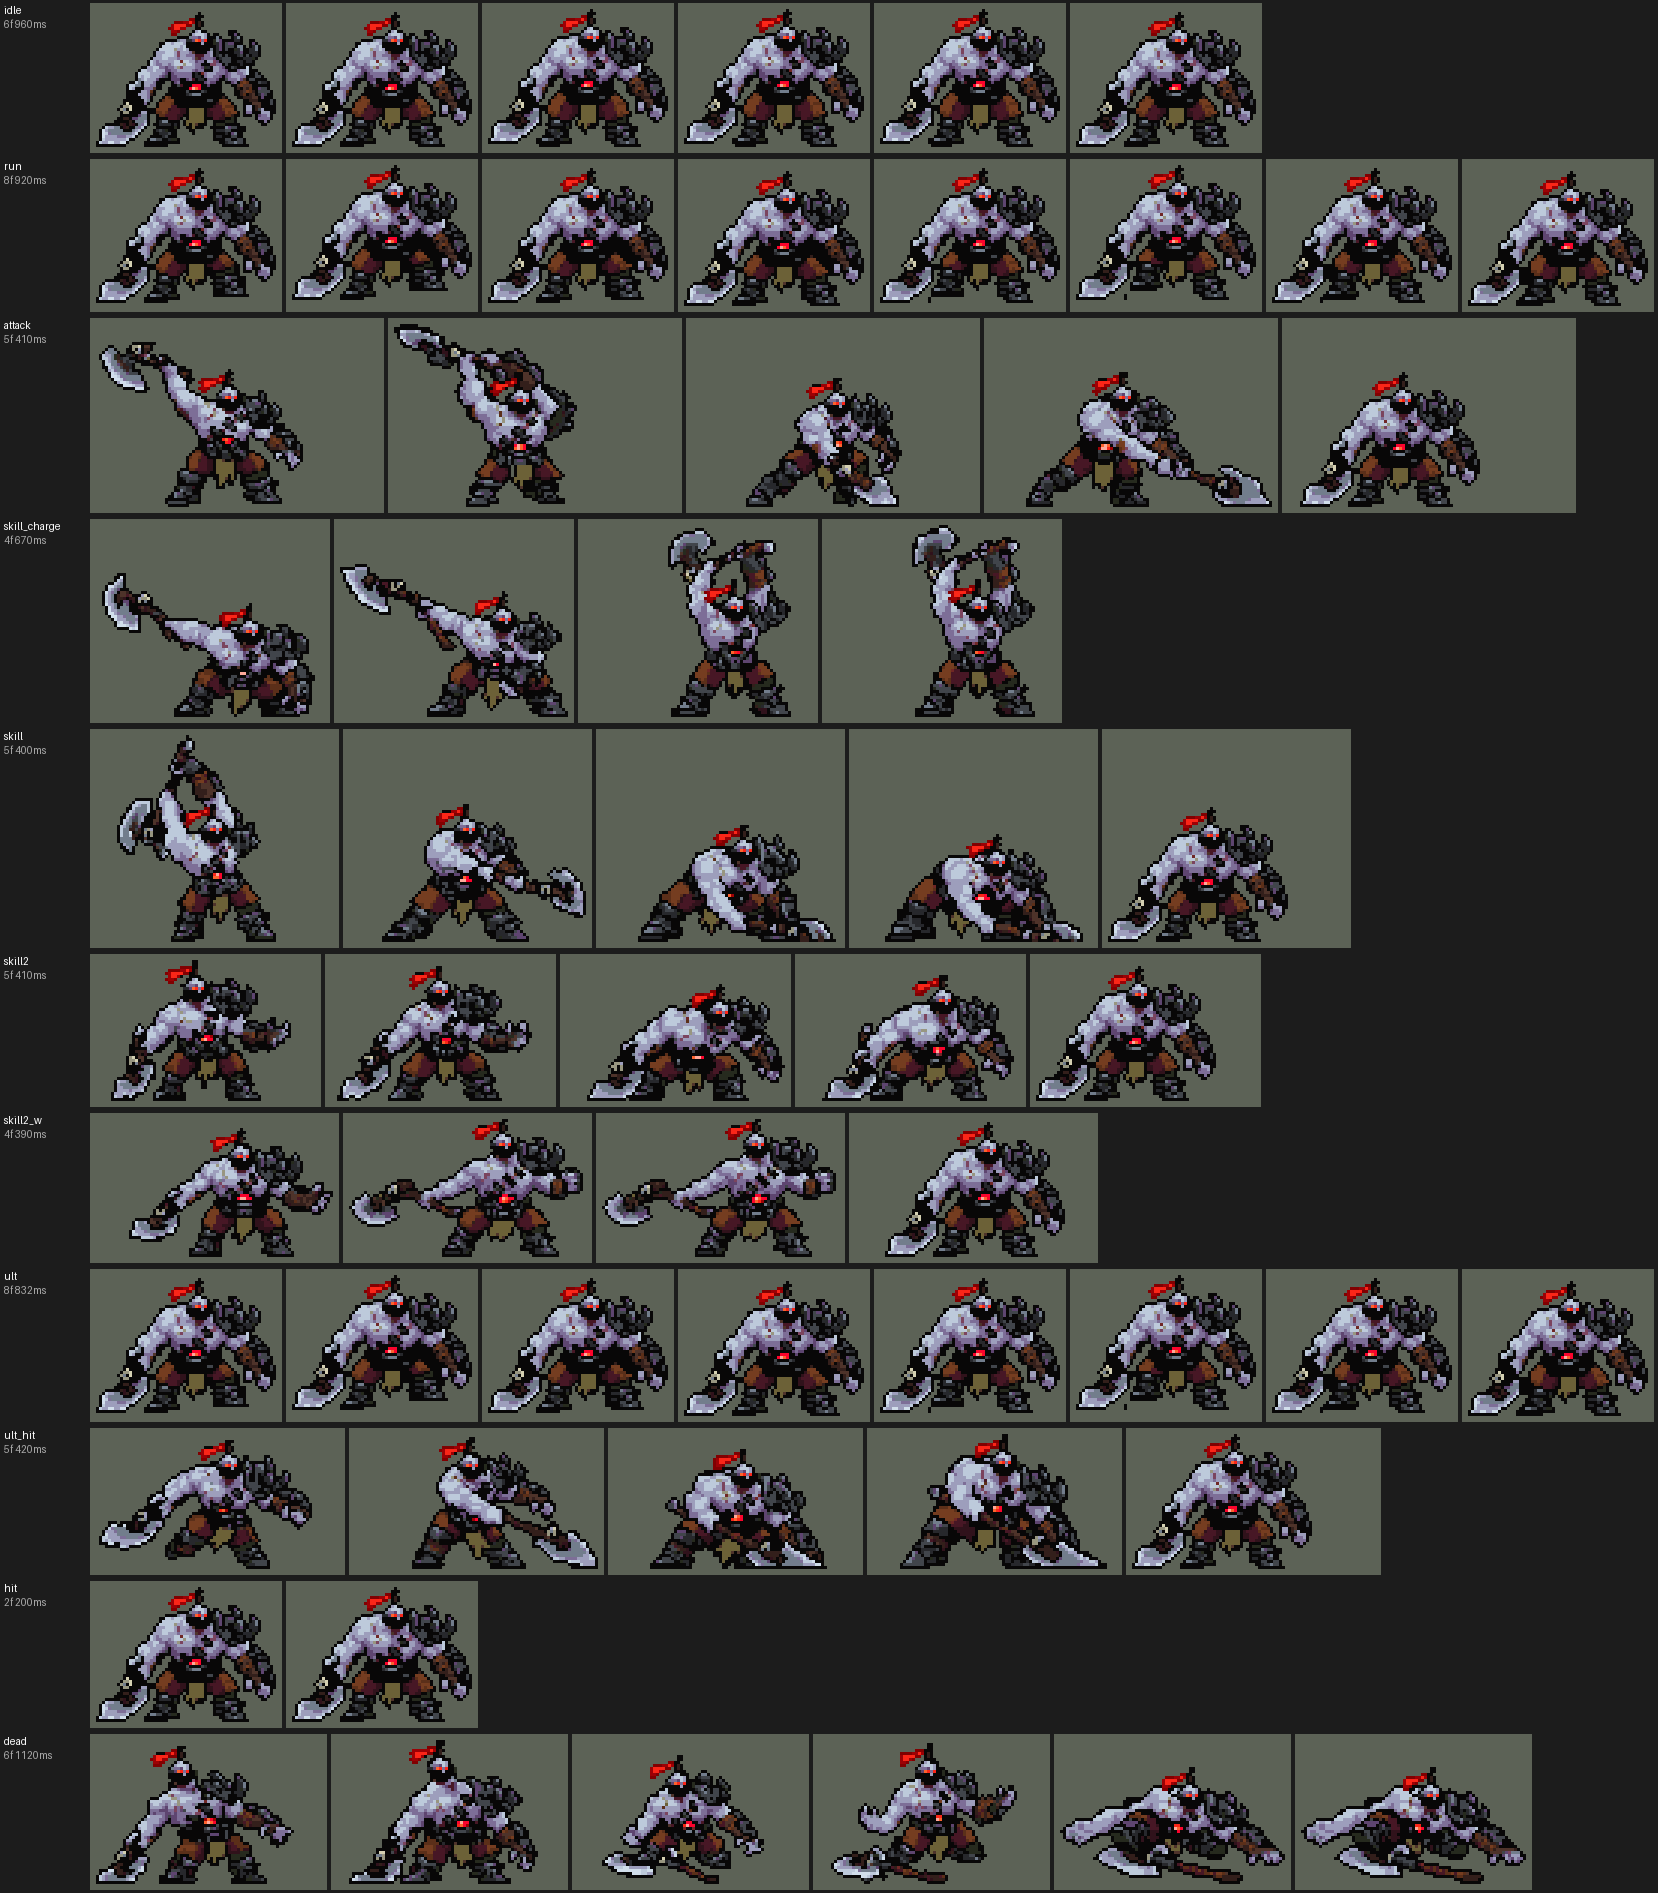
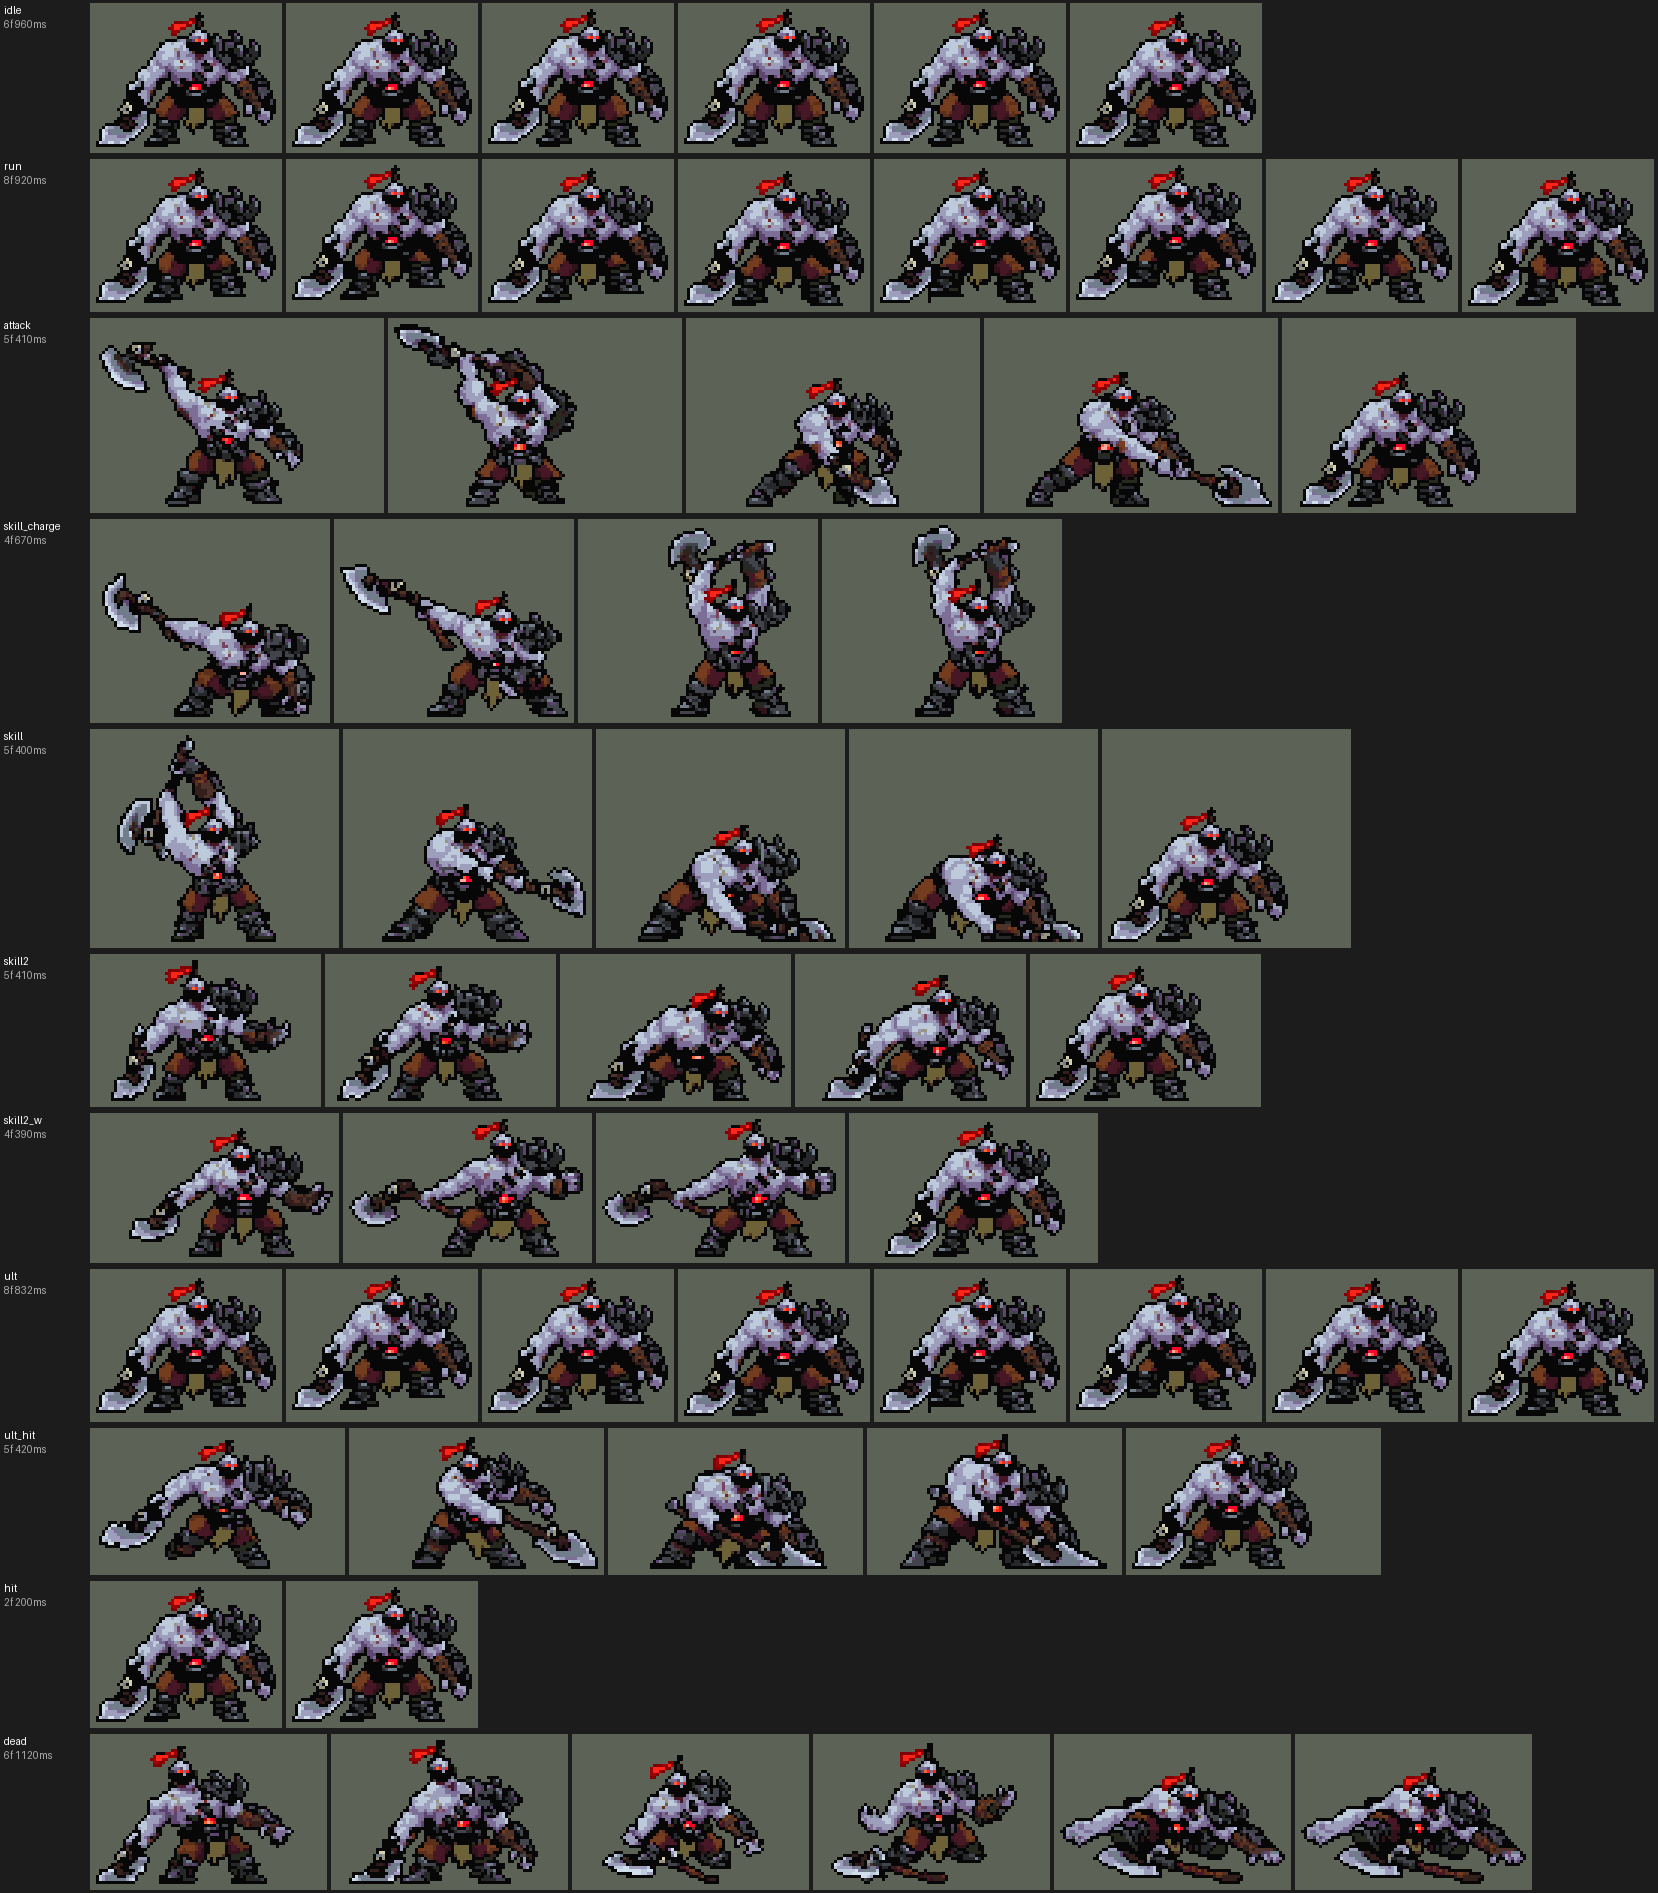
league_sion run (and R's charge, the same frames): bigger steps - the swinging foot from 1 behind to 2 ahead lifted up to 4, the planted one sliding back under him; the loose outline squares a lifted foot left are cleared (the user: 「走路像平移？」, then 「塞恩你选一个吧」: B of now / A / B); every other frame pixe

diff --git a/tools/art/rig_sion.py b/tools/art/rig_sion.py
@@ -22,7 +22,8 @@ dense frames by a fraction, so a body moving up and down drew a doubled line acr
 every Codex frame is pixel_down.pixelate'd at 1 / DENSE, his 90 % size built in (no league.dll row). The frames that
 move the design itself are made on the 1x design, whole game pixels at a time, so it never re-samples:
   * idle = the 1x design breathing (the upper body LO_BREATH rows up over the legs), hit = it moved 1 back;
-  * run = it walking league_nautilus / league_braum's way (walk_frame, LO_WALK; the user: 「你向前那样冲刺模型永远会变形」);
+  * run = it walking league_nautilus / league_braum's way (walk_frame, LO_WALK; the user: 「你向前那样冲刺模型永远会变形」),
+    with bigger steps than Nautilus's (his short dark legs between the axe and the gauntlet hardly moved: 「走路像平移？」);
   * ult (R's charge) = the run, faster (the user: 「放大招的时候模型完全变形」 about Codex's hunched charge pose).
 """
 import argparse
@@ -96,10 +97,12 @@ WALK_BAND = 52
 WALK_NEAR = ((53, 62, 31, 50), (62, 75, 28, 50))
 WALK_FAR = ((53, 63, 61, 81), (63, 75, 61, 87))
 CLOTH_BOX = ((53, 75, 50, 61),)       # the loin cloth between them: it hangs from the belt, it does not breathe
-# per frame: the near leg's (columns forward, rows lifted), the far leg's, the figure's rise (1x pixels: league_braum's
-# steps over its PPU)
-LO_WALK = [((0, 0), (0, 2), 1), ((0, 0), (1, 3), 2), ((0, 0), (1, 1), 1), ((0, 0), (1, 0), 0),
-           ((0, 2), (0, 0), 1), ((1, 3), (0, 0), 2), ((1, 1), (0, 0), 1), ((1, 0), (0, 0), 0)]
+# per frame: the near leg's (columns forward, rows lifted), the far leg's, the figure's rise (1x pixels). Nautilus's
+# steps (forward 1, lifted up to 3, the planted foot still; frames 3 and 7 all but the idle) read as gliding on Sion
+# (2026-10-14: 「走路像平移？」, the user picked from now / A / B: 「塞恩你选一个吧」) - B: the swinging foot goes from 1 behind
+# to 2 ahead, lifted up to 4, the planted one slides back under him from 2 ahead to 1 behind
+LO_WALK = [((1, 0), (-1, 2), 1), ((1, 0), (0, 4), 2), ((0, 0), (1, 3), 1), ((-1, 0), (2, 0), 0),
+           ((-1, 2), (1, 0), 1), ((0, 4), (1, 0), 2), ((1, 3), (0, 0), 1), ((2, 0), (-1, 0), 0)]
 WALK_MS = 115
 CRACK = 3                       # bare squares a step opens, this many columns wide at most: a crack
 SPECK = 8
@@ -1040,7 +1043,8 @@ def lo_design(p):
     belt = np.zeros((ROWS, COLS), bool)
     belt[DESIGN_AT[1] + WALK_BAND] = True
     band = int(np.nonzero(lo_mask(belt, L.shape, piv, p).any(1))[0][0])
-    run = [walk_frame(L, n_, f_, r_, near, far, band) for n_, f_, r_ in LO_WALK]
+    # a lifted foot leaves the 1-2 outline squares it shared with the axe blade / the ground loose: cleared
+    run = [specks(walk_frame(L, n_, f_, r_, near, far, band)) for n_, f_, r_ in LO_WALK]
     head = np.zeros((ROWS, COLS), bool)
     hy, hx = np.nonzero(head_mask(own=True))
     head[hy + DESIGN_AT[1], hx + DESIGN_AT[0]] = True

diff --git a/README.md b/README.md
@@ -199,7 +199,7 @@
 
 ![巴德演示：一记星光弹打在德莱厄斯身上，跟着一个 Meep 飞过去炸开，德莱厄斯和金克丝脚下减速；Q 星界束缚：一颗星穿过德莱厄斯打中他身后的金克丝，两人身上套上束缚环被眩晕；W 游神圣坛：圣坛抛到身后的盖伦脚下，回血、加速；R 调和命运：金球抛到德莱厄斯和金克丝中间，一个金色穹顶罩住他们，两人变成金色雕像 2.5 秒，然后解冻；E 神奇旅程（附加包）：他身后打开一道星空传送门，站在门口，然后带着盖伦飞过去，从出口门出来，两人都加速](docs/preview/league_bard_showcase.gif?v=1014g)
 
-![赛恩演示：两记大斧劈在德莱厄斯身上；Q 残虐猛击：举斧蓄力，脚前亮起一条暗红的长线，砸下去沿线裂开，德莱厄斯被击飞；E 杀手怒吼：一道吼声穿过德莱厄斯，他头上挂着破甲的标记；W 灵魂熔炉：身上一层火焰护盾，3 秒后炸开烧到德莱厄斯；R 蛮横冲撞：先退后，再迈开大步冲过去，脚下发光，撞上德莱厄斯把他撞飞；死亡荣耀（附加包）：身边燃起暗红的亡灵之火，继续挥斧](docs/preview/league_sion_showcase.gif?v=1014g)
+![赛恩演示：两记大斧劈在德莱厄斯身上；Q 残虐猛击：举斧蓄力，脚前亮起一条暗红的长线，砸下去沿线裂开，德莱厄斯被击飞；E 杀手怒吼：一道吼声穿过德莱厄斯，他头上挂着破甲的标记；W 灵魂熔炉：身上一层火焰护盾，3 秒后炸开烧到德莱厄斯；R 蛮横冲撞：先退后，再迈开大步冲过去，脚下发光，撞上德莱厄斯把他撞飞；死亡荣耀（附加包）：身边燃起暗红的亡灵之火，继续挥斧](docs/preview/league_sion_showcase.gif?v=1014w)
 
 ![千珏演示：两记灵箭（拉弓时弦上搭着灵箭，松弦一闪）射中德莱厄斯；Q 乱箭之舞：向前一跳留下尘烟和灵光拖影，落地三箭齐发射中德莱厄斯和盖伦；E 横生惧意：带紫烟的箭打中，德莱厄斯头顶挂上漩涡印记，三箭之后狼灵的头扑下来咬住他；W 狼灵狂热：举手召出狼烟，脚下铺开紫色的狼灵领域，狼灵每秒咬一口；R 羊灵生息：举起的弓尖亮起星光，脚下展开 4 秒的白色法阵，结束时她和身后的塔里克升起回血的光](docs/preview/league_kindred_showcase.gif?v=1014h)
 
@@ -4371,7 +4371,7 @@ python addons/league_bard/make_override.py   # 附加包的副本（主包的巴
 | 大招 | R「蛮横冲撞」：冷却 3600 tick，免疫控制，每 tick 2400 往前冲（最多 50 tick），撞上第一个敌方英雄停下：冲得越远越疼（开冲时挂的两个计时标记，泽拉斯 E 的做法），200 / 300 / 400 + 100% 攻击物理、击飞 45 / 70 / 95 tick，身边 24000 内的敌人减速 40% 150 tick。用户：「塞恩r大招逻辑不难乱放」「救队友也可以放啊 开团也可以放啊」——照加里奥 R，这一格只是**上膛** 600 tick，每 10 tick 查一次：60000 内有被控住的友方英雄，就冲向他身边 30000 内的敌方英雄（救人）；身边 50000 内有 2 名以上友方英雄（开团）；或者队友正在打的敌方英雄、身边有队友跟着（追击）——一个人在线上不冲；没冲就退还冷却。36 局统计：每局冲 3.97 次，撞中 77%（原来见人就冲：4.89 次、65%） |
 | 附加包 | 可选的附加包 [`addons/league_sion`](addons/league_sion/README.md)（在附加包合集里，原生代码，主包不装它也完整）：**死亡荣耀**——每条命第一次挨到致命伤害时停在 1 血，变成亡灵：生命回满后按 540 tick 掉光，攻速 +60%、吸血 100%，不能放技能，身边燃起暗红的亡灵之火（主包的 `p_zombie` 特效），倒下时人头算最后打他的人；**灵魂熔炉**按英雄联盟来：每次击杀（技能、大招的也算）永久加最大生命，小兵野怪 +4、英雄 +15，阵亡不丢。附加包里的赛恩是 `make_override.py` 从主包生成的副本，普攻说明以「【附加包】」开头。日志 `league_sion.log`（`RISE` / `FALL` / `FURNACE` 行） |
 | 数值 | 攻击 88（+16）、生命 1400（+140）、护甲 42（+8）、魔抗 32（+4）、移速 980（+10），本包上单里最肉、出手最慢的。SDK 对战模拟：上单位，对原版的 fighter、executioner、lancer、pole_warrior、knight、berserker，两边、三套队友阵容，10 分钟。初稿 d0 −1.90（Q 蓄力 1 秒、线窄）；Q 蓄力 0.67 秒、线 50000 × 10000、伤害加上去后 +0.19 / −0.03；R 改成上膛后 +0.24 / −0.12；加伤害反而 −0.44 / −0.29，加生命、护甲、护盾（生命 1400、护甲 42、护盾 220）后种子 1–12 **+0.77**、13–24 **+0.43**（同批雷克顿 +1.78 / +2.05、德莱厄斯 +1.73 / +1.75、莫德凯撒 +1.32 / +0.75、盖伦 −1.05 / −1.41），在本包上单中间 |
-| 精灵图（1 倍） | Codex 画了两张原画，用户选 A（大斧垂在近侧腿边），44 行高。造型（第 1 步）Codex 的成品是脚本画的、块状，用户选了我们从它干净的细稿按整行整列切出来的那张（[`tools/art/design_sion.py`](tools/art/design_sion.py)），不要侧面，所有动作都用 3/4 正面；先按「用PPU优化一下 调稍微清晰一点」做成 PPU 1.52 的高清造型。动作是 Codex 画的 36 张细稿（[`tools/art/rig_sion.py`](tools/art/rig_sion.py)：每条动作按身体面积缩回造型大小，头换回造型的头，斧刃、拳头、护肩、腰布等逐帧修，独立审查 8 轮）；跑步照诺提勒斯 / 布隆在待机上迈腿。用户：「模型太大了吧 和铁男差不多大就行了吧」「调成90%」——画成 90%；然后「画质太高清了 要调低像素」（高清帧在游戏里按非整数倍缩放，身体一上下动腿上就多出一道黑线：「上下摆动造成模型变形了腿部」），从样张选了 **1 倍**（和原版英雄一样粗）：Codex 的帧按 1 / (1.52 / 0.90) 缩成 1 倍，每帧贴回 1 倍待机的头、补上针孔；待机、跑步、受击直接在 1 倍造型上整格移动；R 冲锋原来是 Codex 弯腰的姿势，用户：「放大招的时候模型完全变形」——改成和跑步一样迈腿往前冲。不在 league.dll 的高清名单里。头像截取点 (4, −37) |
+| 精灵图（1 倍） | Codex 画了两张原画，用户选 A（大斧垂在近侧腿边），44 行高。造型（第 1 步）Codex 的成品是脚本画的、块状，用户选了我们从它干净的细稿按整行整列切出来的那张（[`tools/art/design_sion.py`](tools/art/design_sion.py)），不要侧面，所有动作都用 3/4 正面；先按「用PPU优化一下 调稍微清晰一点」做成 PPU 1.52 的高清造型。动作是 Codex 画的 36 张细稿（[`tools/art/rig_sion.py`](tools/art/rig_sion.py)：每条动作按身体面积缩回造型大小，头换回造型的头，斧刃、拳头、护肩、腰布等逐帧修，独立审查 8 轮）；跑步照诺提勒斯 / 布隆在待机上迈腿（游戏里用户：「走路像平移？」——他腿短、靴子深色、夹在斧头和拳套中间，诺提勒斯那样前迈 1 格、抬 3 行看不出在走；让用户挑了三套里的 B：摆动的脚从身后 1 格迈到身前 2 格、最高抬 4 行，着地的脚在身下从前 2 格退到后 1 格，脚边留下的描边碎点清掉）。用户：「模型太大了吧 和铁男差不多大就行了吧」「调成90%」——画成 90%；然后「画质太高清了 要调低像素」（高清帧在游戏里按非整数倍缩放，身体一上下动腿上就多出一道黑线：「上下摆动造成模型变形了腿部」），从样张选了 **1 倍**（和原版英雄一样粗）：Codex 的帧按 1 / (1.52 / 0.90) 缩成 1 倍，每帧贴回 1 倍待机的头、补上针孔；待机、跑步、受击直接在 1 倍造型上整格移动；R 冲锋原来是 Codex 弯腰的姿势，用户：「放大招的时候模型完全变形」——改成和跑步一样迈腿往前冲。不在 league.dll 的高清名单里。头像截取点 (4, −37) |
 | 特效 | Codex 第 3 步的 15 个特效（`assets/source/sion/codex_fx`），[`tools/art/import_sion_fx.py`](tools/art/import_sion_fx.py) 用它的 1 倍成品；普攻打中、灵魂、Q 的线、E 的吼声、W 打中这几个 Codex 缩小时整格缩没了，改从它的原稿按格重新读回（多数投票、左右镜像）。`league_sion_fx`：普攻打中、击杀的灵魂、Q 打中、E 的吼声 / 打中 / 破甲标记、W 打中、R 打中；`league_sion_big`：Q 的线和砸地裂纹、W 护盾和爆炸、R 脚下的光和撞击、亡灵之火 |
 | 音效 | 英雄联盟的音效和配音（`tools/lol/extract_sion.py`）：挥斧 / 打中、Q 蓄力 / 砸中、E 吼 / 打中、W 护盾 / 爆炸、R 冲锋 / 撞中、复活，配音 Q / W / E / R / 复活（片段名 `league_sion_sfx_vo_*`，和声音名不同）。版权属于 Riot Games，**不提交到仓库**，按下面的命令在本地生成 |
 | 图标 | 官方技能图标（Q 残虐猛击 / E 杀手怒吼 / R 蛮横冲撞，另有 W 灵魂熔炉、被动死亡荣耀），从本地客户端提取，缩到 64×64 |
@@ -4396,7 +4396,7 @@ python addons/league_sion/make_override.py   # 附加包的副本（主包的赛
 - 动作：Codex 的 36 张细稿（`codex_strips/`）。
 - 特效：Codex 的 15 个特效（`codex_fx/`）。
 
-逐帧预览：[`docs/preview/league_sion_frames.png`](docs/preview/league_sion_frames.png?v=1014g)，特效：[`docs/preview/league_sion_effects.png`](docs/preview/league_sion_effects.png?v=1014g)。
+逐帧预览：[`docs/preview/league_sion_frames.png`](docs/preview/league_sion_frames.png?v=1014w)，特效：[`docs/preview/league_sion_effects.png`](docs/preview/league_sion_effects.png?v=1014g)。
 
 ## 英雄：千珏
 
